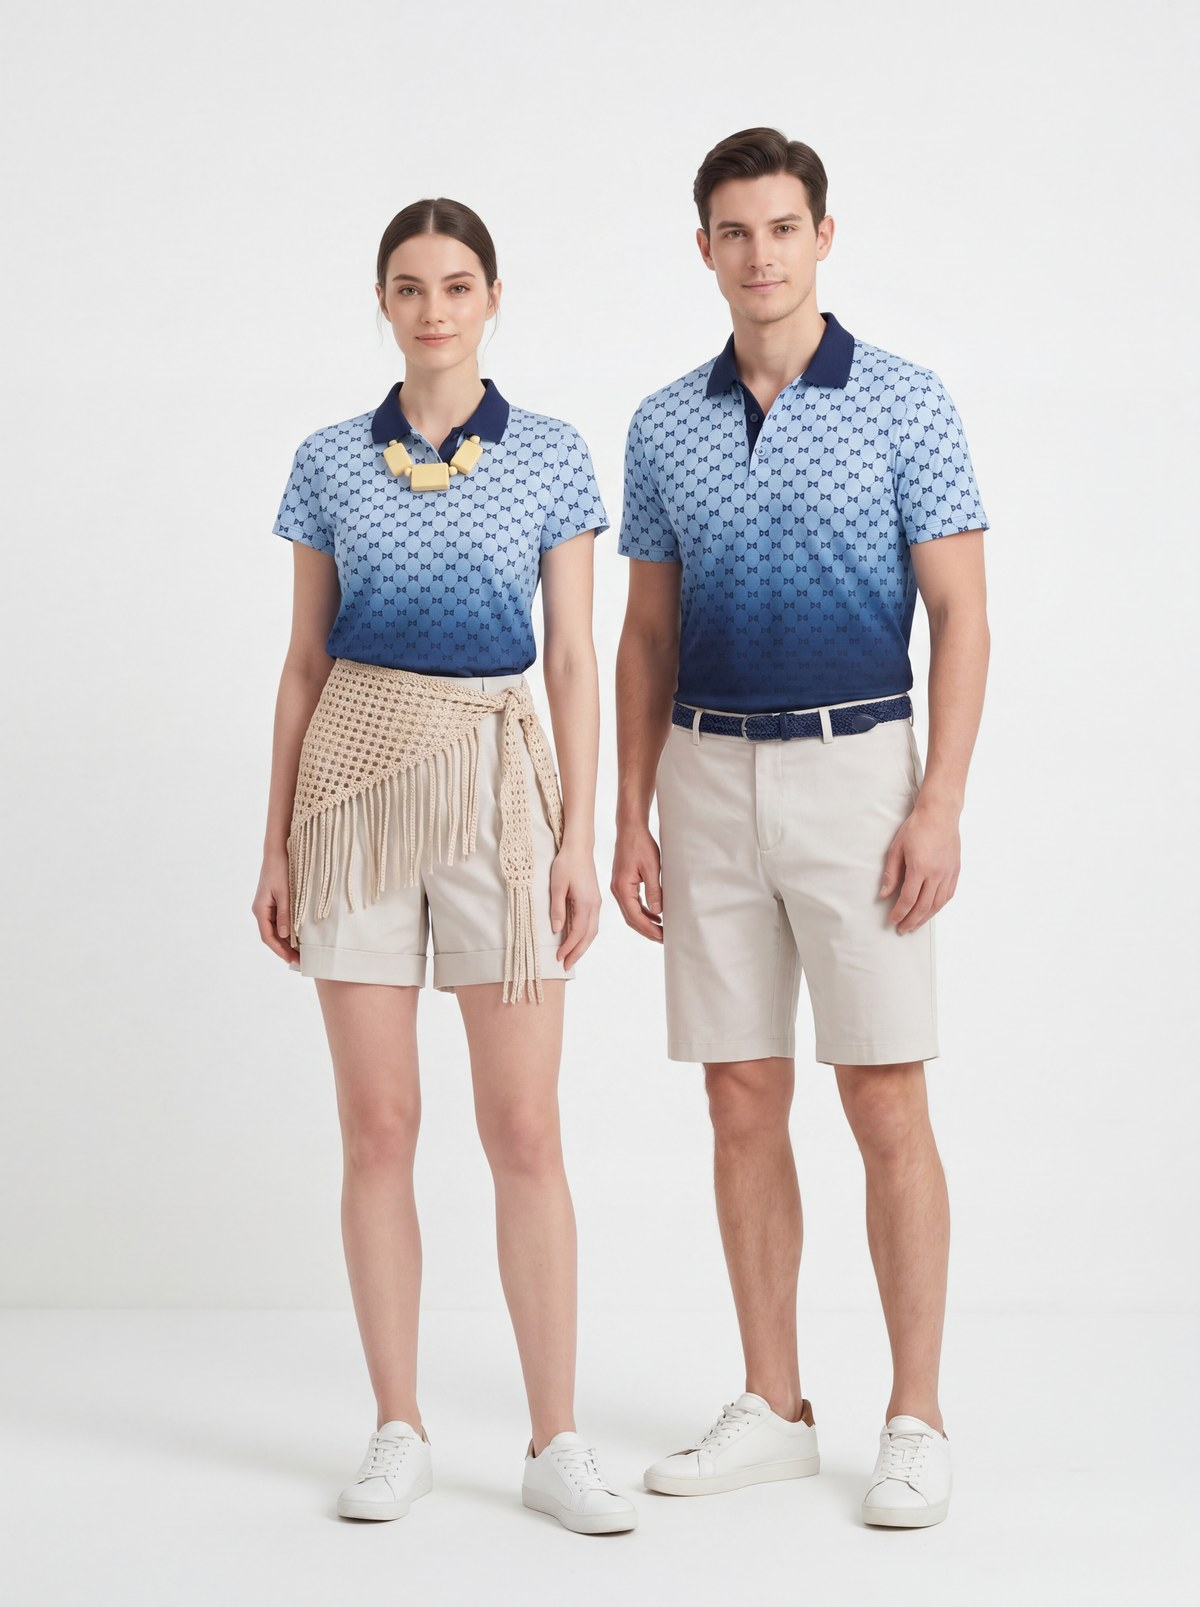
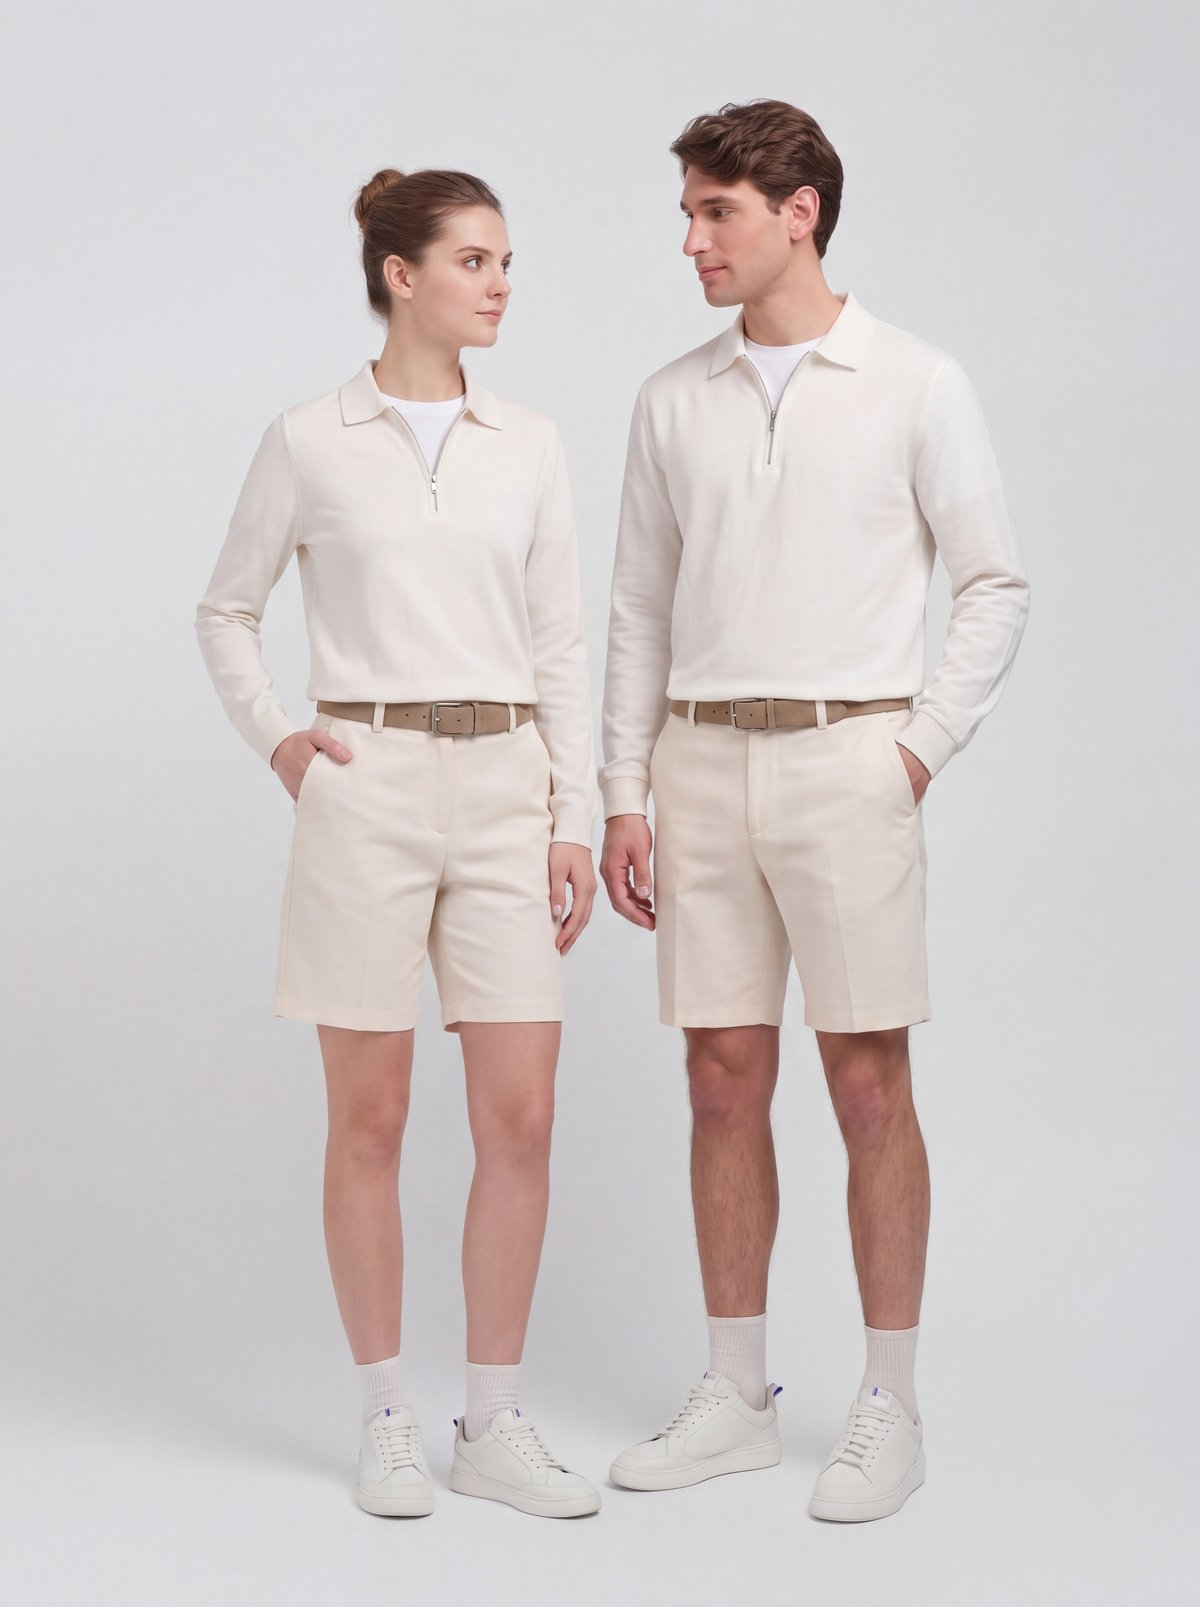
Update resort uniform image and series

diff --git a/data/catalog.js b/data/catalog.js
@@ -149,7 +149,7 @@ const CATALOG = {
     },
     {
       id: "case5",
-      series: "customize",
+      series: "readymade",
       title: "Resort & Leisure Service Collection",
       blurb: "Polished, relaxed uniforms for resort reception, golf, poolside and casual dining service.",
     },
